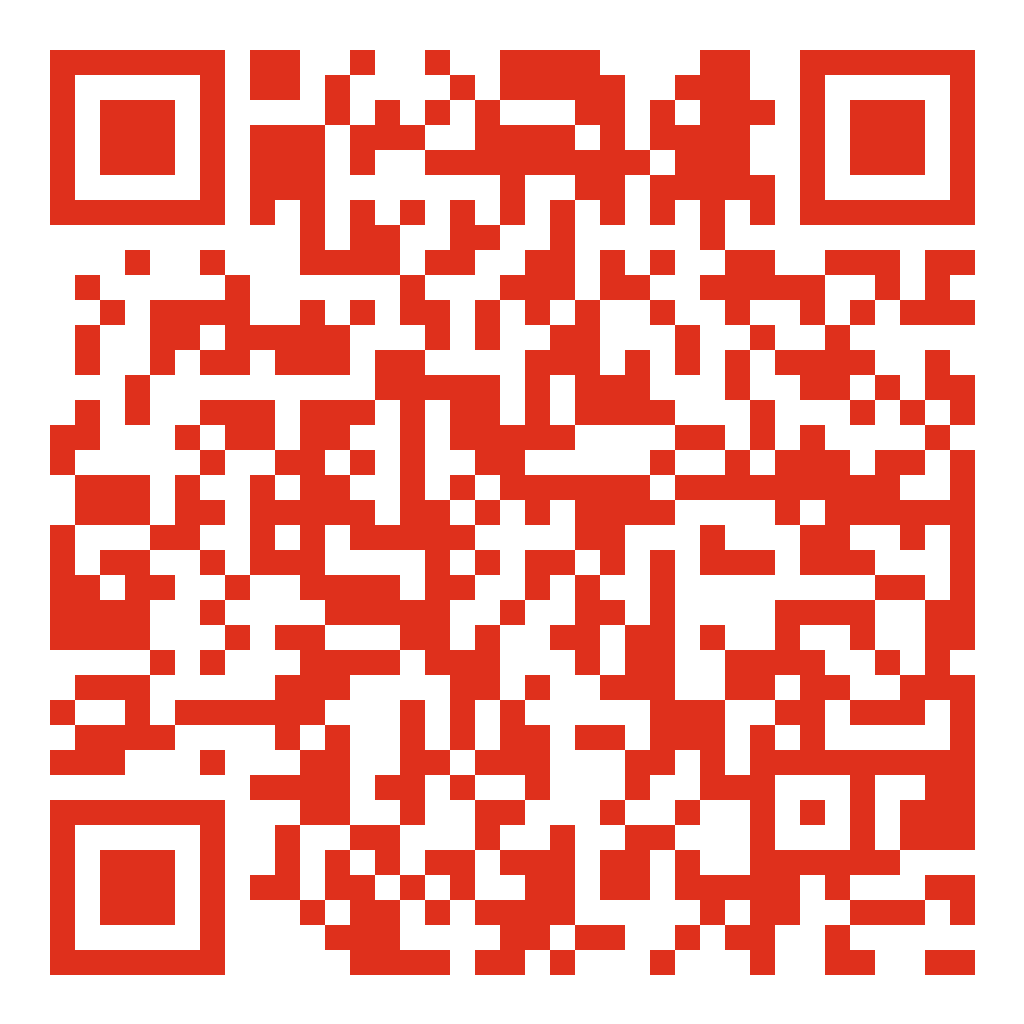
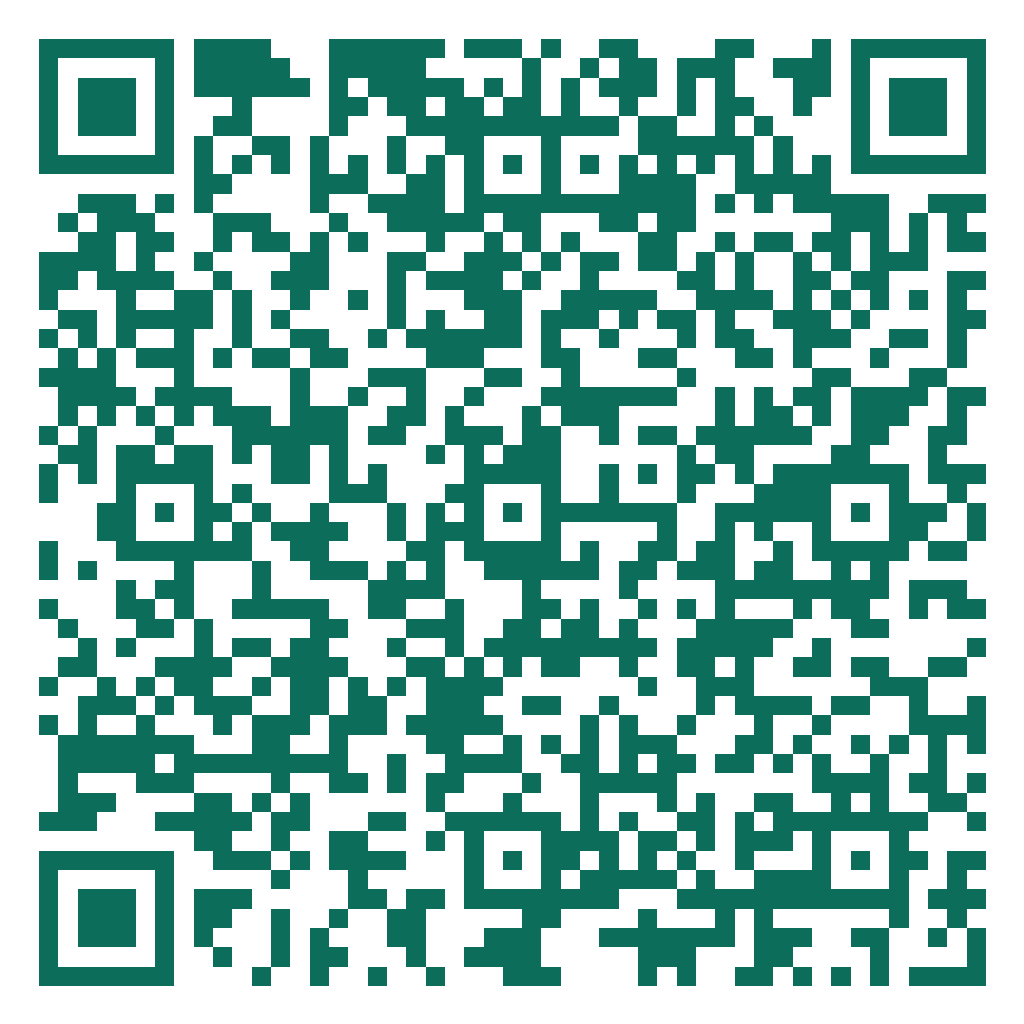
feat(location): integrate verified Yandex Maps organization profile (EcoDenta Muqimiy 41) with dual-provider interactive switcher and updated review QRs

diff --git a/frontend/src/components/ClinicLocationMap.jsx b/frontend/src/components/ClinicLocationMap.jsx
@@ -1,4 +1,4 @@
-import React from "react";
+import React, { useState } from "react";
 import { useLanguage } from "../context/LanguageContext";
 import { DOCTOR_INFO } from "../constants/doctor";
 import { PRIMARY_CLINIC } from "../constants/clinics";
@@ -15,6 +15,7 @@ const ClinicLocationMap = ({ compact = false }) => {
   const { lang } = useLanguage();
   const c = PRIMARY_CLINIC;
   const hours = useClinicHours(lang);
+  const [mapProvider, setMapProvider] = useState("yandex"); // "yandex" | "google"
 
   return (
     <section
@@ -127,9 +128,34 @@ const ClinicLocationMap = ({ compact = false }) => {
         <div className="lg:col-span-7 flex flex-col justify-between rounded-2xl overflow-hidden bg-teal-50/50 border border-teal-200 p-4 sm:p-6 space-y-4">
           <div className="space-y-2">
             <div className="flex flex-wrap items-center justify-between gap-2">
-              <span className="inline-flex items-center px-3 py-1 rounded-full bg-emerald-50 text-emerald-700 border border-emerald-200/80 text-[11px] font-medium tracking-wide shadow-2xs">
-                <span>{lang === "uz" ? "Qabul vaqti: Dushanba – Shanba" : lang === "ru" ? "Время приёма: Пн – Сб" : "Hours: Monday – Saturday"}</span>
-              </span>
+              {/* Map Provider Switcher Tabs (Yandex / Google) */}
+              <div className="inline-flex items-center bg-slate-200/80 rounded-xl p-1 text-xs font-bold shadow-inner">
+                <button
+                  type="button"
+                  onClick={() => setMapProvider("yandex")}
+                  className={`flex items-center gap-1.5 px-3 py-1.5 rounded-lg transition-all ${
+                    mapProvider === "yandex"
+                      ? "bg-white text-primary shadow-xs"
+                      : "text-slate-600 hover:text-slate-900"
+                  }`}
+                >
+                  <span className="w-2 h-2 rounded-full bg-red-500 shrink-0" />
+                  <span>Yandex Xarita</span>
+                </button>
+                <button
+                  type="button"
+                  onClick={() => setMapProvider("google")}
+                  className={`flex items-center gap-1.5 px-3 py-1.5 rounded-lg transition-all ${
+                    mapProvider === "google"
+                      ? "bg-white text-primary shadow-xs"
+                      : "text-slate-600 hover:text-slate-900"
+                  }`}
+                >
+                  <span className="w-2 h-2 rounded-full bg-blue-500 shrink-0" />
+                  <span>Google Maps</span>
+                </button>
+              </div>
+
               <span className="text-xs font-medium text-slate-500">
                 {c.shortAddress[lang]}
               </span>
@@ -146,45 +172,60 @@ const ClinicLocationMap = ({ compact = false }) => {
 
           {/* Interactive Map Iframe */}
           <div className="w-full h-72 sm:h-80 rounded-2xl overflow-hidden border border-teal-200/80 shadow-xs relative bg-slate-100">
-            <iframe
-              src="https://yandex.uz/map-widget/v1/?ll=72.344247%2C40.782064&z=14"
-              width="100%"
-              height="100%"
-              frameBorder="0"
-              allowFullScreen={true}
-              loading="lazy"
-              title="Stomatolog Orifjon Joylashuvi"
-              className="w-full h-full"
-            />
+            {mapProvider === "yandex" ? (
+              <iframe
+                src={c.maps.yandexEmbed}
+                width="100%"
+                height="100%"
+                frameBorder="0"
+                allowFullScreen={true}
+                loading="lazy"
+                title="Stomatolog Orifjon Yandex Joylashuvi"
+                className="w-full h-full"
+              />
+            ) : (
+              <iframe
+                src={c.maps.googleEmbed}
+                width="100%"
+                height="100%"
+                frameBorder="0"
+                allowFullScreen={true}
+                loading="lazy"
+                title="Stomatolog Orifjon Google Maps Joylashuvi"
+                className="w-full h-full"
+              />
+            )}
           </div>
 
           {/* Direct Map Action Buttons (Google + Yandex + Route) */}
           <div className="grid grid-cols-1 sm:grid-cols-3 gap-2.5 pt-2">
             <a
-              href={c.maps.googleFull}
-              target="_blank"
-              rel="noopener noreferrer"
-              className="flex items-center justify-center gap-1.5 px-4 py-2.5 rounded-xl bg-white hover:bg-slate-50 border border-slate-200 text-slate-700 text-xs font-semibold shadow-2xs hover:border-slate-300 transition-all"
-            >
-              <span>Google Maps ↗</span>
-            </a>
-
-            <a
               href={c.maps.yandex}
               target="_blank"
               rel="noopener noreferrer"
-              className="flex items-center justify-center gap-1.5 px-4 py-2.5 rounded-xl bg-white hover:bg-slate-50 border border-slate-200 text-slate-700 text-xs font-semibold shadow-2xs hover:border-slate-300 transition-all"
+              className="flex items-center justify-center gap-1.5 px-4 py-2.5 rounded-xl bg-white hover:bg-slate-50 border border-slate-200 text-slate-800 text-xs font-semibold shadow-2xs hover:border-primary/50 transition-all"
             >
+              <span className="font-bold text-red-500">Я</span>
               <span>{lang === "uz" ? "Yandex Xarita" : lang === "ru" ? "Яндекс Карты" : "Yandex Maps"} ↗</span>
             </a>
 
             <a
-              href={`https://yandex.uz/maps/?rtext=~${c.coordinates.lat},${c.coordinates.lng}&rtt=auto`}
+              href={c.maps.googleFull}
+              target="_blank"
+              rel="noopener noreferrer"
+              className="flex items-center justify-center gap-1.5 px-4 py-2.5 rounded-xl bg-white hover:bg-slate-50 border border-slate-200 text-slate-800 text-xs font-semibold shadow-2xs hover:border-primary/50 transition-all"
+            >
+              <span className="font-bold text-blue-500">G</span>
+              <span>Google Maps ↗</span>
+            </a>
+
+            <a
+              href={c.maps.yandexRouteUrl}
               target="_blank"
               rel="noopener noreferrer"
               className="flex items-center justify-center gap-1.5 px-4 py-2.5 rounded-xl bg-primary hover:bg-primary-hover text-white text-xs font-bold shadow-xs hover:shadow-md transition-all"
             >
-              <span>{lang === "uz" ? "Marshrut Olish" : lang === "ru" ? "Маршрут" : "Directions"} ↗</span>
+              <span>{lang === "uz" ? "Marshrut (Yandex Nav)" : lang === "ru" ? "Маршрут (Навигатор)" : "Directions"} ↗</span>
             </a>
           </div>
         </div>

diff --git a/frontend/src/constants/clinics.js b/frontend/src/constants/clinics.js
@@ -22,19 +22,19 @@ export const CLINICS = [
       en: "Andijan",
     },
     address: {
-      uz: "Andijon shahri, Muqimiy ko'chasi",
-      ru: "г. Андижан, ул. Мукими",
-      en: "Muqimiy St., Andijan, Uzbekistan",
+      uz: "Andijon shahri, Muqimiy ko'chasi, 41-uy",
+      ru: "г. Андижан, ул. Мукими, 41",
+      en: "41 Muqimiy St., Andijan, Uzbekistan",
     },
     shortAddress: {
-      uz: "Andijon sh., Muqimiy ko'chasi",
-      ru: "г. Андижан, ул. Мукими",
-      en: "Muqimiy St., Andijan",
+      uz: "Andijon sh., Muqimiy ko'chasi, 41",
+      ru: "г. Андижан, ул. Мукими, 41",
+      en: "41 Muqimiy St., Andijan",
     },
     landmark: {
-      uz: "Andijon shahri markaziy hududi",
-      ru: "Центральный район г. Андижан",
-      en: "Central Andijan district",
+      uz: "Muqimiy ko'chasi, Eco Denta stomatologiyasi",
+      ru: "ул. Мукими, стоматология Eco Denta",
+      en: "Muqimiy St., Eco Denta dental clinic",
     },
     hours: {
       uz: "Dushanba – Shanba: 08:30 – 18:30",
@@ -54,19 +54,22 @@ export const CLINICS = [
     instagram: "https://www.instagram.com/dr_orifjon/",
     instagramHandle: "@dr_orifjon",
     coordinates: {
-      lat: 40.782064,
-      lng: 72.344247,
+      lat: 40.759178,
+      lng: 72.354301,
     },
     maps: {
-      google: "https://maps.google.com/?q=Andijan,+Uzbekistan",
-      googleFull: "https://maps.google.com/?q=Andijan,+Uzbekistan",
-      yandex: "https://yandex.uz/maps/?text=Andijon",
-      yandexShort: "https://yandex.uz/maps/?text=Andijon",
-      yandexOrgId: "",
-      yandexReviewUrl: "https://yandex.uz/maps/?text=Andijon",
+      google: "https://www.google.com/maps/search/?api=1&query=40.759178,72.354301",
+      googleFull: "https://www.google.com/maps/search/?api=1&query=40.759178,72.354301",
+      googleEmbed: "https://www.google.com/maps?q=40.759178,72.354301&hl=uz&z=16&output=embed",
+      yandex: "https://yandex.uz/maps/org/ecodenta_stomotologiyasi/157518762948/",
+      yandexShort: "https://yandex.uz/maps/org/ecodenta_stomotologiyasi/157518762948/",
+      yandexEmbed: "https://yandex.uz/map-widget/v1/org/ecodenta_stomotologiyasi/157518762948/?ll=72.354301%2C40.759178&z=17",
+      yandexOrgId: "157518762948",
+      yandexReviewUrl: "https://yandex.uz/maps/org/ecodenta_stomotologiyasi/157518762948/reviews/",
+      yandexRouteUrl: "https://yandex.uz/maps/?rtext=~40.759178,72.354301&rtt=auto",
       googlePlaceId: "",
       googleCid: "",
-      googleReviewUrl: "https://maps.google.com/?q=Andijan,+Uzbekistan",
+      googleReviewUrl: "https://www.google.com/maps/search/?api=1&query=40.759178,72.354301",
     },
   },
 ];

diff --git a/frontend/public/qr-stand.html b/frontend/public/qr-stand.html
@@ -311,13 +311,13 @@
     }
 
     .btn-print {
-      background: #FF9D50;
+      background: #0C6E5A;
       color: #FFFFFF;
-      box-shadow: 0 10px 20px -5px rgba(255, 157, 80, 0.4);
+      box-shadow: 0 10px 20px -5px rgba(12, 110, 90, 0.4);
     }
 
     .btn-print:hover {
-      background: #E68536;
+      background: #095446;
       transform: translateY(-1px);
     }
 
@@ -428,7 +428,7 @@
 
           <!-- Prompt Text -->
           <p class="card-footer-prompt">Kamerani QR-kodga qarating</p>
-          <a href="https://maps.google.com/?q=Andijan,+Uzbekistan" target="_blank" rel="noopener noreferrer" class="card-footer-link link-google">Google Xaritalarda baholash</a>
+          <a href="https://www.google.com/maps/search/?api=1&query=40.759178,72.354301" target="_blank" rel="noopener noreferrer" class="card-footer-link link-google">Google Xaritalarda baholash</a>
 
         </div>
 
@@ -454,7 +454,7 @@
 
           <!-- Prompt Text -->
           <p class="card-footer-prompt">Kamerani QR-kodga qarating</p>
-          <a href="https://yandex.uz/maps/?text=Andijon" target="_blank" rel="noopener noreferrer" class="card-footer-link link-yandex">Yandeks Xaritalarda baholash</a>
+          <a href="https://yandex.uz/maps/org/ecodenta_stomotologiyasi/157518762948/" target="_blank" rel="noopener noreferrer" class="card-footer-link link-yandex">Yandeks Xaritalarda baholash</a>
 
         </div>
 
